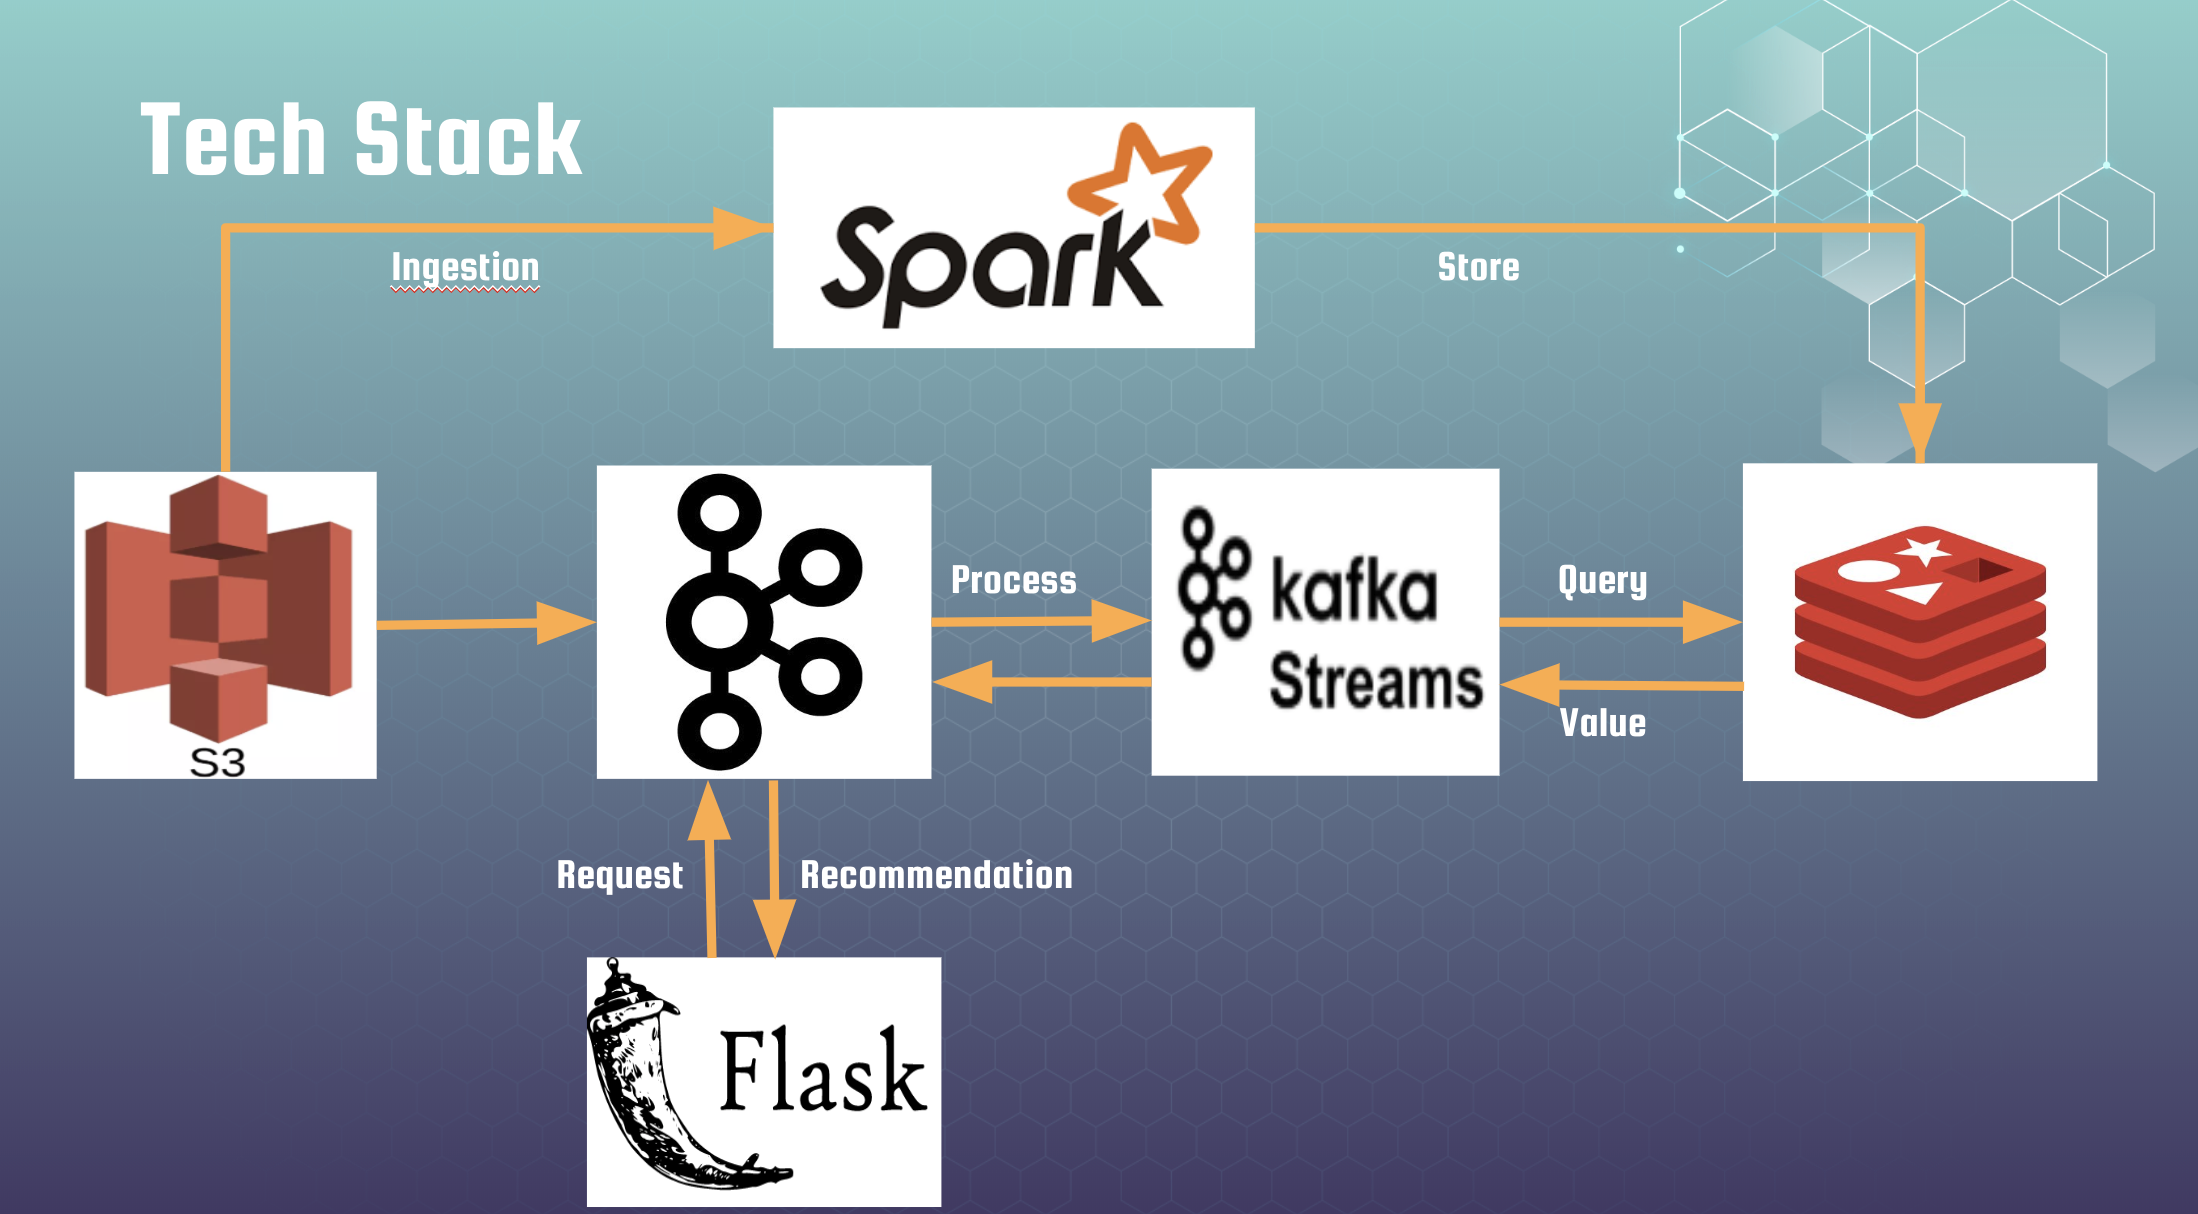
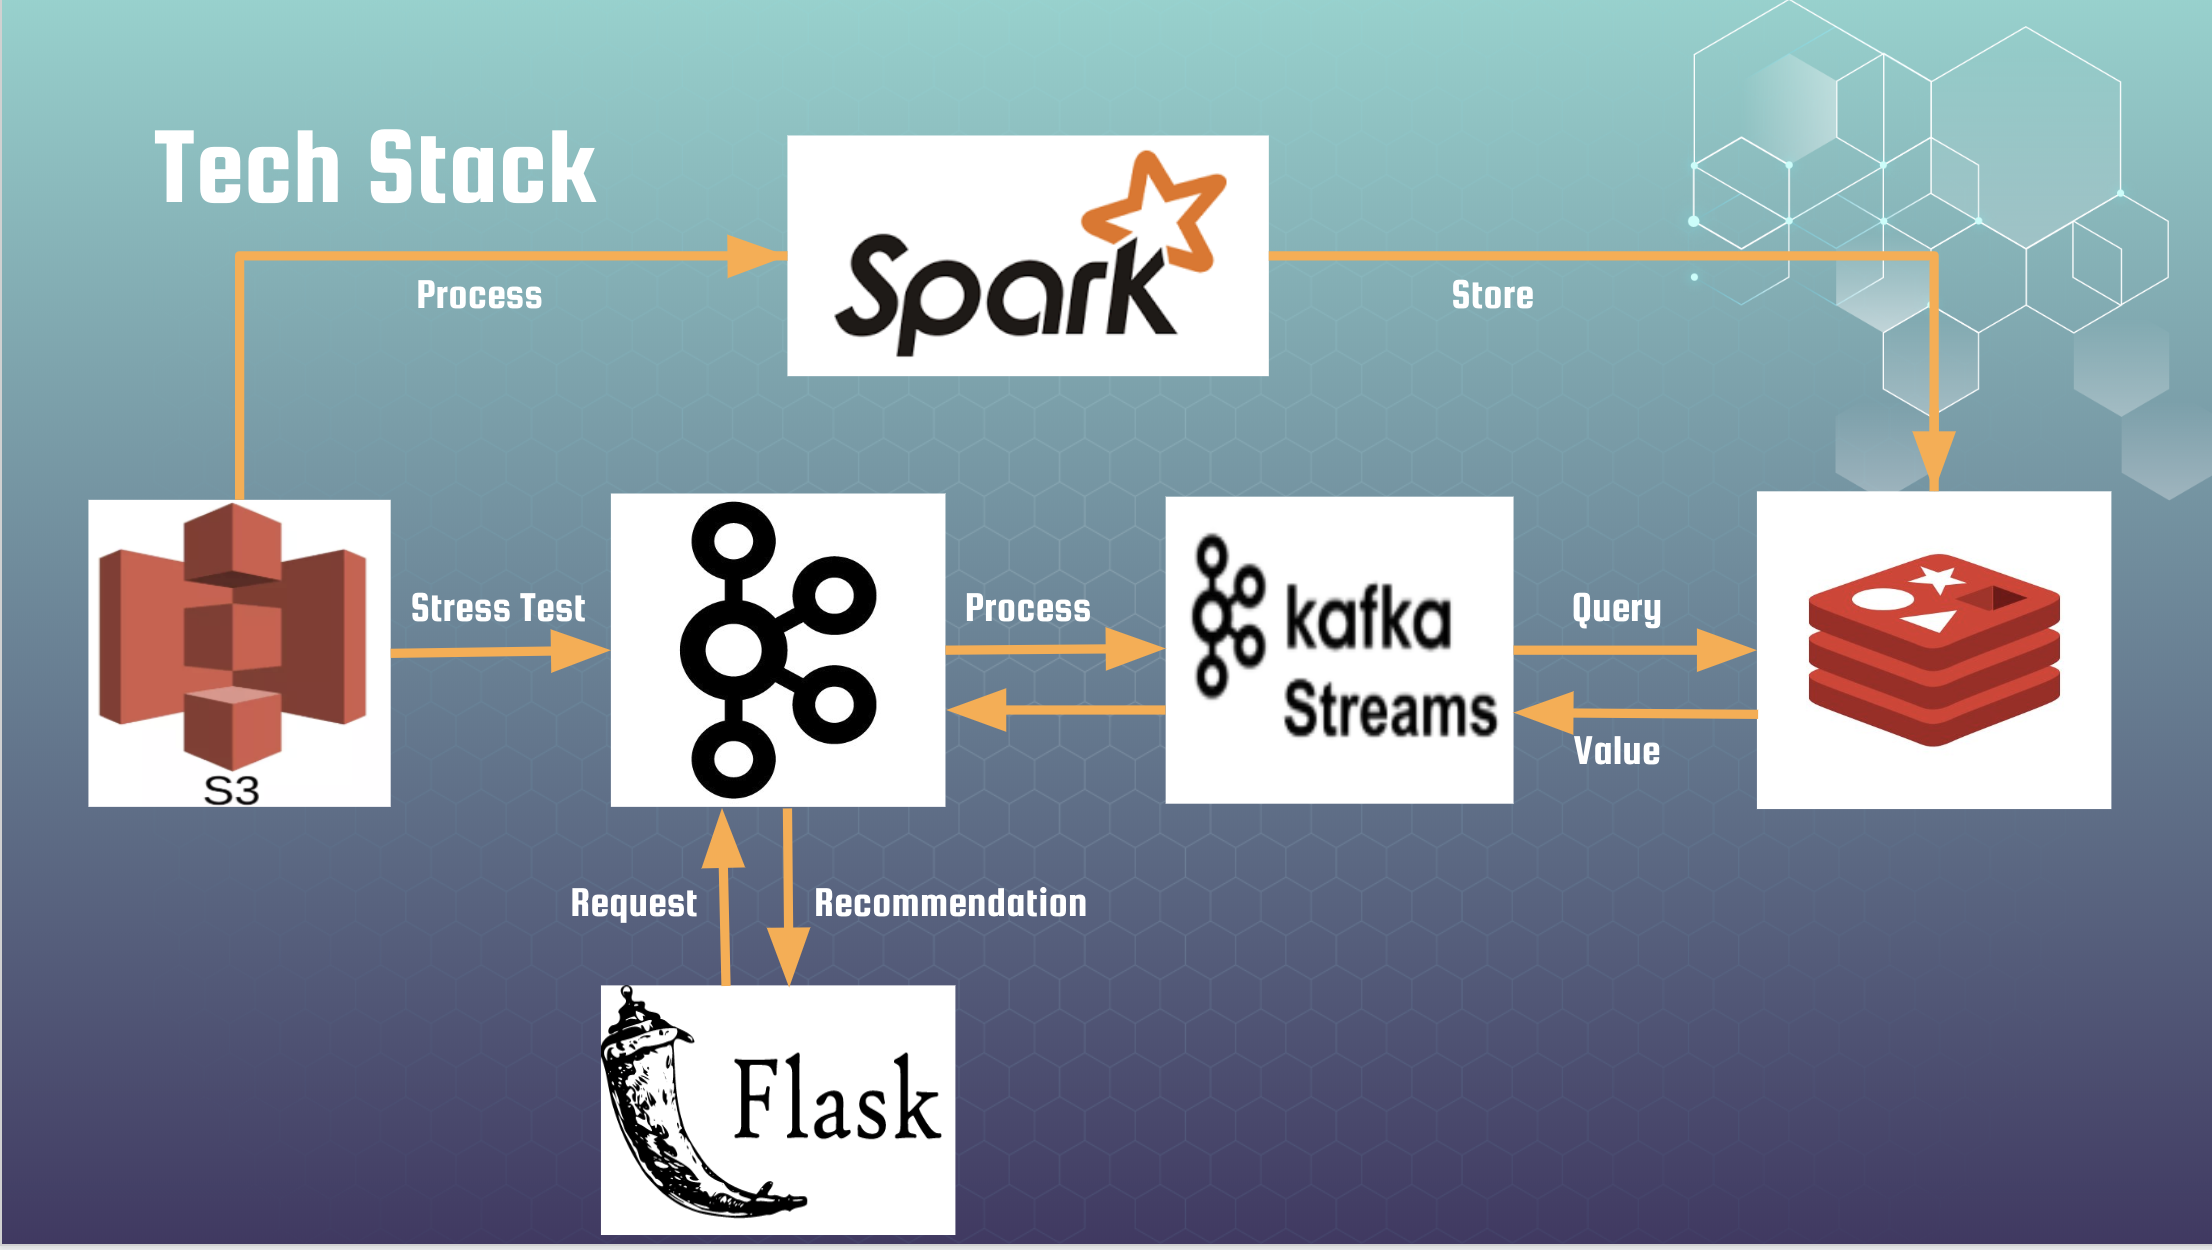
update tech stack image and update read me file

diff --git a/README.md b/README.md
@@ -1,4 +1,8 @@
-# Auto Tagging System 
+# Real-Time Auto Tagging System 
+
+**_-- Author: Shuyan(Stephanie) Zhou_**
+
+
 Insight Data Engineering Fellowship Program Project.
 This project provide real-time auto tagging suggestions for users that post questions on StackOverflow according to the question title.
 
